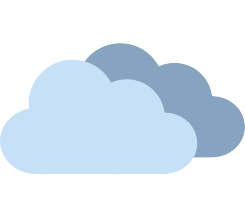
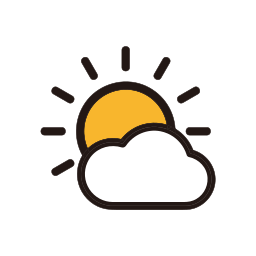
dodělání počasí na jeden den

diff --git a/src/PocasiAplikace.java b/src/PocasiAplikace.java
@@ -1,12 +1,18 @@
+import org.json.simple.JSONObject;
+
 import javax.imageio.ImageIO;
 import javax.swing.*;
 import java.awt.*;
+import java.awt.event.ActionEvent;
+import java.awt.event.ActionListener;
 import java.awt.image.BufferedImage;
 import java.io.File;
 import java.io.IOException;
 
 
 public class PocasiAplikace extends JFrame {
+
+    private JSONObject wData;
 
     public PocasiAplikace(){
         super("Počasí");
@@ -21,18 +27,18 @@ public class PocasiAplikace extends JFrame {
     private void addComponents(){
         JTextField searchTextField = new JTextField();
         searchTextField.setBounds(50,25,400,75);
-        searchTextField.setFont(new Font("Dialog",Font.ROMAN_BASELINE,27));
+        searchTextField.setFont(new Font("Dialog",Font.BOLD,27));
         add(searchTextField);
 
         JLabel temperatureTxt = new JLabel("10 C");
         temperatureTxt.setBounds(13,350,550,60);
-        temperatureTxt.setFont(new Font("Dialog",Font.ROMAN_BASELINE,52));
+        temperatureTxt.setFont(new Font("Dialog",Font.BOLD,52));
         temperatureTxt.setHorizontalAlignment(SwingConstants.CENTER);
         add(temperatureTxt);
 
         JLabel whatWeather = new JLabel("cloudy ");
-        whatWeather.setBounds(13,400,550,45);
-        whatWeather.setFont(new Font("Dialog",Font.ROMAN_BASELINE,42));
+        whatWeather.setBounds(13,410,553,48);
+        whatWeather.setFont(new Font("Dialog",Font.BOLD,42));
         whatWeather.setHorizontalAlignment(SwingConstants.CENTER);
         add(whatWeather);
 
@@ -47,76 +53,128 @@ public class PocasiAplikace extends JFrame {
         add(windForceTxt);
 
         JLabel uvIndexTxt = new JLabel("1000");
-        uvIndexTxt.setBounds(60,500,150,75);
+        uvIndexTxt.setBounds(60,550,150,75);
         uvIndexTxt.setFont(new Font("dialog",Font.BOLD,20));
         add(uvIndexTxt);
 
         JLabel pressureTxt = new JLabel("2500ph");
-        pressureTxt.setBounds(250,500,150,75);
+        pressureTxt.setBounds(250,550,150,75);
         pressureTxt.setFont(new Font("dialog",Font.BOLD,20));
         add(pressureTxt);
 
         JLabel precipitationTxt = new JLabel("10mm");
-        precipitationTxt.setBounds(435,500,150,75);
+        precipitationTxt.setBounds(435,550,150,75);
         precipitationTxt.setFont(new Font("dialog", Font.BOLD,20));
         add(precipitationTxt);
 
         JLabel sunriseTxt = new JLabel("06:99");
-        sunriseTxt.setBounds(60,600,150,75);
+        sunriseTxt.setBounds(60,675,150,75);
         sunriseTxt.setFont(new Font("dialog",Font.BOLD,20));
         add(sunriseTxt);
 
         JLabel sunsetTxt = new JLabel("21:99");
-        sunsetTxt.setBounds(250,600,150,75);
+        sunsetTxt.setBounds(435,675,150,75);
         sunsetTxt.setFont(new Font("dialog",Font.BOLD,20));
         add(sunsetTxt);
 
-        JLabel moonStateTxt = new JLabel("new moon");
-        moonStateTxt.setBounds(435,600,150,75);
-        moonStateTxt.setFont(new Font("dialog",Font.BOLD,20));
-        add(moonStateTxt);
+
+
+
+
+
+        JLabel weatherIM = new JLabel(loadIM("src/pocasiFoto/cloudy.png"));
+        weatherIM.setBounds(140,125,256,256);
+        add(weatherIM);
+
+        JLabel humidityIM = new JLabel(loadIM("src/pocasiFoto/humidity.png"));
+        humidityIM.setBounds(50,350,64,64);
+        add(humidityIM);
+
+        JLabel windForceIM = new JLabel(loadIM("src/pocasiFoto/windforce.png"));
+        windForceIM.setBounds(435,350,64,64);
+        add(windForceIM);
+
+        JLabel uvIndexIM = new JLabel(loadIM("src/pocasiFoto/uvindex.png"));
+        uvIndexIM.setBounds(60,500,64,64);
+        add(uvIndexIM);
+
+        JLabel pressureIM = new JLabel(loadIM("src/pocasiFoto/pressure.png"));
+        pressureIM.setBounds(250,500,64,64);
+        add(pressureIM);
+
+        JLabel precipitationIM = new JLabel(loadIM("src/pocasiFoto/precipitations.png"));
+        precipitationIM.setBounds(435,500,64,64);
+        add(precipitationIM);
+
+        JLabel sunriseIM = new JLabel(loadIM("src/pocasiFoto/sunrise.png"));
+        sunriseIM.setBounds(60,625,64, 64);
+        add(sunriseIM);
+
+        JLabel sunsetIM = new JLabel(loadIM("src/pocasiFoto/sunset.png"));
+        sunsetIM.setBounds(435,625,64,64);
+        add(sunsetIM);
 
 
         JButton searchB = new JButton(loadIM("src/pocasiFoto/search.png"));
         searchB.setCursor(Cursor.getPredefinedCursor(Cursor.HAND_CURSOR));
-        searchB.setBounds(455   ,25,75,75);
+        searchB.setBounds(455   ,25,64,64);
+        searchB.addActionListener(new ActionListener() {
+            @Override
+            public void actionPerformed(ActionEvent e) {
+                String userInput = searchTextField.getText();
+
+                if (userInput.replaceAll("//s","").length() <= 0){
+                    return;
+                }
+                wData = Geolocation.getWData(userInput);
+
+
+                String wCond = (String) wData.get("weather_condition");
+                switch (wCond){
+                    case"Clear":
+                        weatherIM.setIcon(loadIM("src/pocasiFoto/clear.png"));
+                        break;
+                    case"Cloudy":
+                        weatherIM.setIcon(loadIM("src/pocasiFoto/cloudy.png"));
+                        break;
+                    case"Rain":
+                        weatherIM.setIcon(loadIM("src/pocasiFoto/rain.png"));
+                        break;
+                    case"Snow":
+                        weatherIM.setIcon(loadIM("src/pocasiFoto/snow.png"));
+                        break;
+
+                }
+                double temperature = (double) wData.get("temperature");
+                temperatureTxt.setText(temperature + " °C");
+
+                whatWeather.setText(wCond);
+
+                long humidity = (long) wData.get("humidity");
+                humidityTxt.setText("<html><b>Humidity:</b> " + humidity + "%</html>");
+
+                double pressure = (double) wData.get("pressure");
+                pressureTxt.setText("<html><b>Pressure:</b> " + pressure + " hPa</html>");
+
+                double windspeed = (double) wData.get("windspeed");
+                windForceTxt.setText("<html><b>Windspeed:</b> " + windspeed + " km/h</html>");
+
+                double uvIndex = (double) wData.get("uvIndex");
+                uvIndexTxt.setText("<html><b>Uv Index:</b> " + uvIndex + " </html>");
+
+                double precipitations = (double) wData.get("precipitation");
+                precipitationTxt.setText("<html><b>Precipitations:</b> " + precipitations + " mm</html>");
+
+                String sunrise  = (String) wData.get("sunrise");
+                sunriseTxt.setText("<html><b>Sunrise:</b> " + sunrise + "</html>");
+
+                String sunset = (String) wData.get("sunset");
+                sunsetTxt.setText("<html><b>Sunset:</b> " + sunset + " </html>");
+
+            }
+
+        });
         add(searchB);
-
-        JLabel weatherIM = new JLabel(loadIM("src/pocasiFoto/cloudy.png"));
-        weatherIM.setBounds(13,125,550,250);
-        add(weatherIM);
-
-        JLabel humidityIM = new JLabel(loadIM("src/pocasiFoto/humidity.png"));
-        humidityIM.setBounds(50,350,75,75);
-        add(humidityIM);
-
-        JLabel windForceIM = new JLabel(loadIM("src/pocasiFoto/windspeed.png"));
-        windForceIM.setBounds(435,350,75,75);
-        add(windForceIM);
-
-        JLabel uvIndexIM = new JLabel(loadIM("src/pocasiFoto/search.png"));
-        uvIndexIM.setBounds(60,450,75,75);
-        add(uvIndexIM);
-
-        JLabel pressureIM = new JLabel(loadIM("src/pocasiFoto/search.png"));
-        pressureIM.setBounds(250,450,75,75);
-        add(pressureIM);
-
-        JLabel precipitationIM = new JLabel("src/pocasiFoto/search.png");
-        precipitationIM.setBounds(435,450,75,75);
-        add(precipitationIM);
-
-        JLabel sunriseIM = new JLabel("src/pocasiFoto/search.png");
-        sunriseIM.setBounds(60,550,75,75);
-        add(sunriseIM);
-
-        JLabel sunsetIM = new JLabel("src/pocasiFoto/search.png");
-        sunsetIM.setBounds(250,550,75,75);
-        add(sunsetIM);
-
-        JLabel moonStateIM = new JLabel("src/pocasiFoto/search.png");
-        moonStateIM.setBounds(435,550,75,75);
-        add(moonStateIM);
 
     }
     private ImageIcon loadIM(String resourcePath){

diff --git a/src/Geolocation.java b/src/Geolocation.java
@@ -3,7 +3,6 @@ import org.json.simple.JSONObject;
 import org.json.simple.JSONArray;
 import org.json.simple.parser.JSONParser;
 
-
 import java.io.IOException;
 import java.net.HttpURLConnection;
 import java.net.URL;
@@ -27,6 +26,7 @@ public class Geolocation {
             HttpURLConnection connection = fetchApiResponse(urlStr);
             if (connection.getResponseCode() != 200){
                 System.out.println("Couldn't connect to api");
+                System.out.println(urlStr);
                 return null;
             }
             StringBuilder resultJ = new StringBuilder();
@@ -47,17 +47,38 @@ public class Geolocation {
             JSONArray tempData = (JSONArray) hourly.get("temperature_2m");
             double temperature  = (double) tempData.get(index);
 
-            JSONArray weatherCode = (JSONArray)  hourly.get("weathercode");
+            JSONArray weatherCode = (JSONArray)  hourly.get("weather_code");
             String weatherCond = convertWCode((long)weatherCode.get(index));
 
-            JSONArray humData = (JSONArray) hourly.get("relativehumidity_2m");
+            JSONArray humData = (JSONArray) hourly.get("relative_humidity_2m");
             long relHum = (long) humData.get(index);
 
             JSONArray pressData = (JSONArray) hourly.get("surface_pressure");
-            long pressure  = (long)pressData.get(index);
+            double pressure  = (double)pressData.get(index);
 
             JSONArray windData = (JSONArray) hourly.get("wind_speed_10m");
             double windspeed = (double) windData.get(index);
+
+
+
+            JSONObject daily = (JSONObject) resJOBJ.get("daily");
+            JSONArray day = (JSONArray) daily.get("time");
+            int indexDay = findDay(day);
+
+            JSONArray uvIData = (JSONArray) daily.get("uv_index_max");
+            double uvIndex = (double) uvIData.get(indexDay);
+
+            JSONArray precipData = (JSONArray) daily.get("precipitation_sum");
+            double precipitation = (double) precipData.get(indexDay);
+
+            JSONArray riseData = (JSONArray) daily.get("sunrise");
+            String sunrise = (String) daily.get(indexDay);
+
+            JSONArray setData = (JSONArray) daily.get("sunset");
+            String sunset = (String) daily.get(indexDay);
+
+
+
 
             JSONObject wData = new JSONObject();
             wData.put("temperature",temperature);
@@ -65,6 +86,11 @@ public class Geolocation {
             wData.put("humidity",relHum);
             wData.put("pressure",pressure);
             wData.put("windspeed",windspeed);
+            wData.put("uvIndex",uvIndex);
+            wData.put("precipitation",precipitation);
+            wData.put("sunrise",sunrise);
+            wData.put("sunset",sunset);
+
 
             return wData;
         }catch (Exception e){
@@ -129,10 +155,28 @@ public class Geolocation {
        }
        return 0;
     }
+    private static int findDay(JSONArray tList){
+        String curD = getDay();
+
+        for (int i = 0; i<tList.size();i++){
+            String time = (String) tList.get(i);
+            if (time.equalsIgnoreCase(curD)){
+                return i;
+            }
+        }
+        return 0;
+    }
     public static String getCurT(){
        LocalDateTime curDataT = LocalDateTime.now();
 
         DateTimeFormatter formatter = DateTimeFormatter.ofPattern("yyyy-MM-dd'T'HH':00'");
+        String formDateT = curDataT.format(formatter);
+        return formDateT;
+    }
+    public static String getDay(){
+        LocalDateTime curDataT = LocalDateTime.now();
+
+        DateTimeFormatter formatter = DateTimeFormatter.ofPattern("yyyy-MM-dd");
         String formDateT = curDataT.format(formatter);
         return formDateT;
     }

diff --git a/src/Launcher.java b/src/Launcher.java
@@ -6,6 +6,8 @@ public class Launcher {
             @Override
             public void run() {
                 new PocasiAplikace().setVisible(true);
+               // System.out.println(Geolocation.getLocData("Praha"));
+
             }
         });
     }
